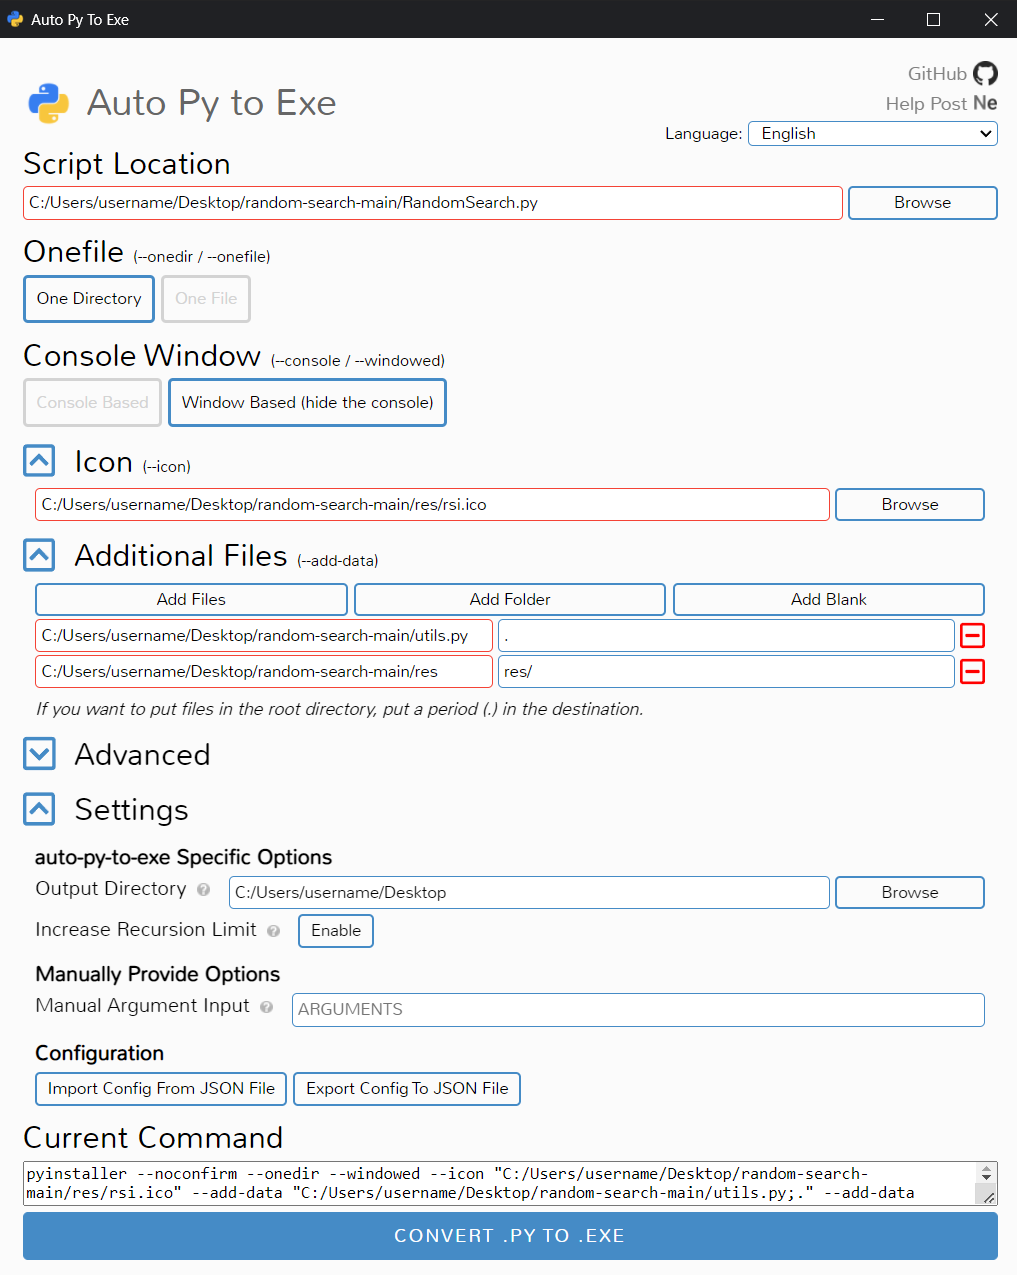
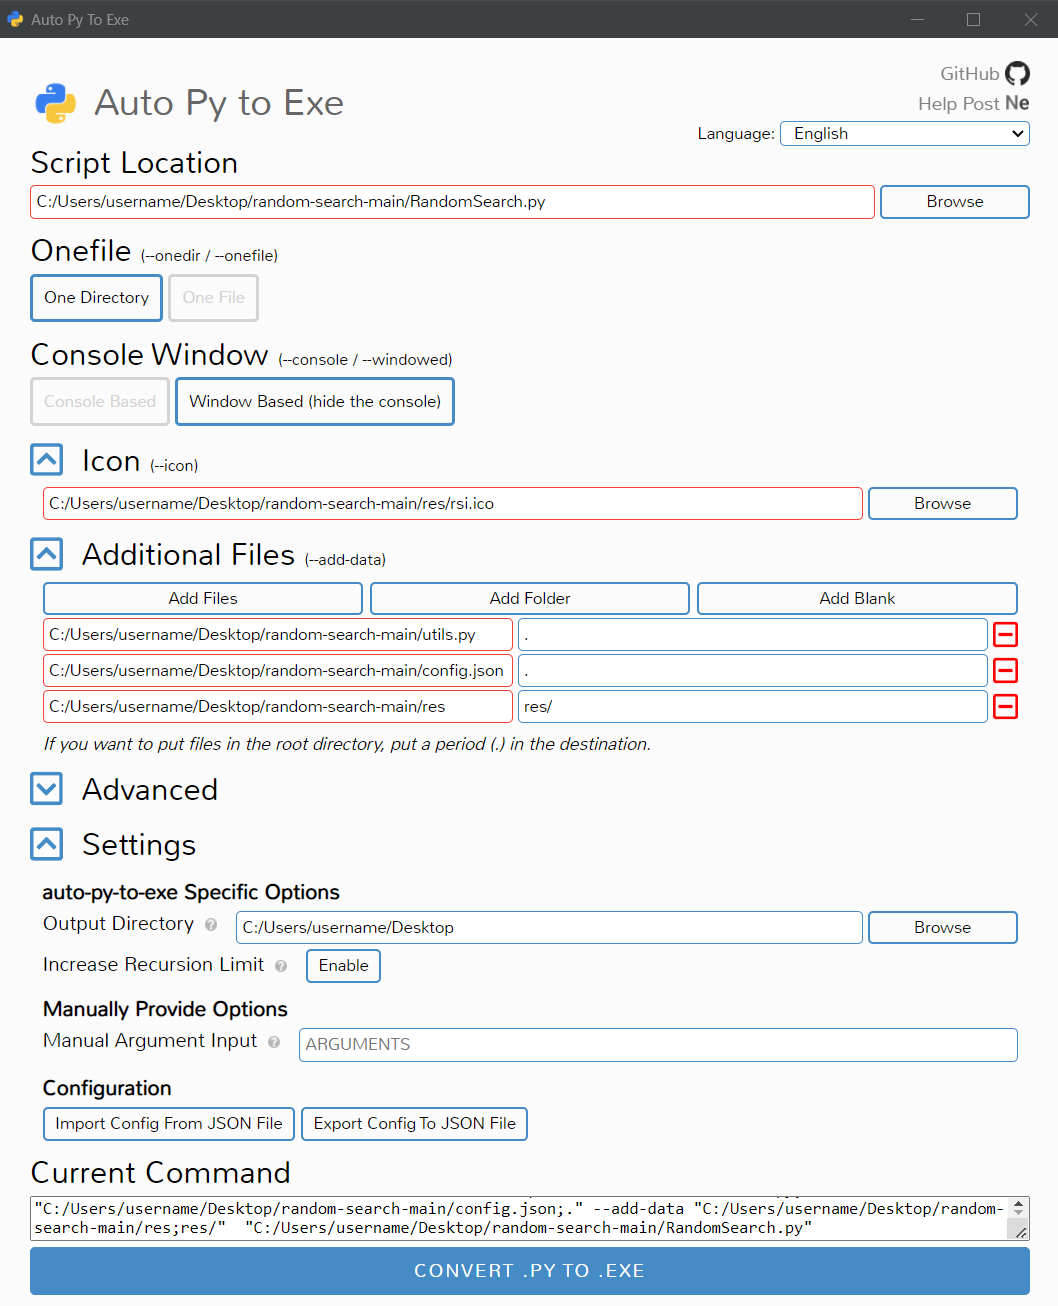
Update README.md

Changed region(s): [[0.0, 0.0612, 1.0, 1.0], [0.0, 0.0, 1.0, 0.1835], [0.7925, 0.6729, 0.9754, 0.7341]]

diff --git a/README.md b/README.md
@@ -81,7 +81,7 @@ Run the following two commands into the Windows Command Prompt (modifying the "*
 
 ```bash
 cd Desktop
-pyinstaller --noconfirm --onedir --windowed --icon "C:/Users/username/Desktop/random-search-main/res/rm.ico" --add-data "C:/Users/username/Desktop/random-search-main/utils.py;." --add-data "C:/Users/username/Desktop/random-search-main/res;res/"  "C:/Users/username/Desktop/random-search-main/RandomSearch.py"
+pyinstaller --noconfirm --onedir --windowed --icon "C:/Users/username/Desktop/random-search-main/res/rsi.ico" --add-data "C:/Users/username/Desktop/random-search-main/utils.py;." --add-data "C:/Users/username/Desktop/random-search-main/config.json;." --add-data "C:/Users/username/Desktop/random-search-main/res;res/"  "C:/Users/username/Desktop/random-search-main/RandomSearch.py"
 ```
 
 You should now see on the Desktop two folders and a file: *dist*, *build* and *RandomSearch.spec*. You can delete *build* and *RandomSearch.spec* and move the *RandomSearch* folder out of *dist*.
@@ -100,7 +100,7 @@ Use the following command to run Auto PY to EXE:
 auto-py-to-exe
 ```
 
-Configure it as in the image below, adding the *res* folder and the *utils.py* file in "*Additional Files*".
+Configure it as in the image below, adding the *res* folder and the *utils.py* and *config.json* files in "*Additional Files*".
 
 <p align="center">
   <img src="docs/_media/auto-py-to-exe.png" style="width: 600px; margin: 25px;"/>
